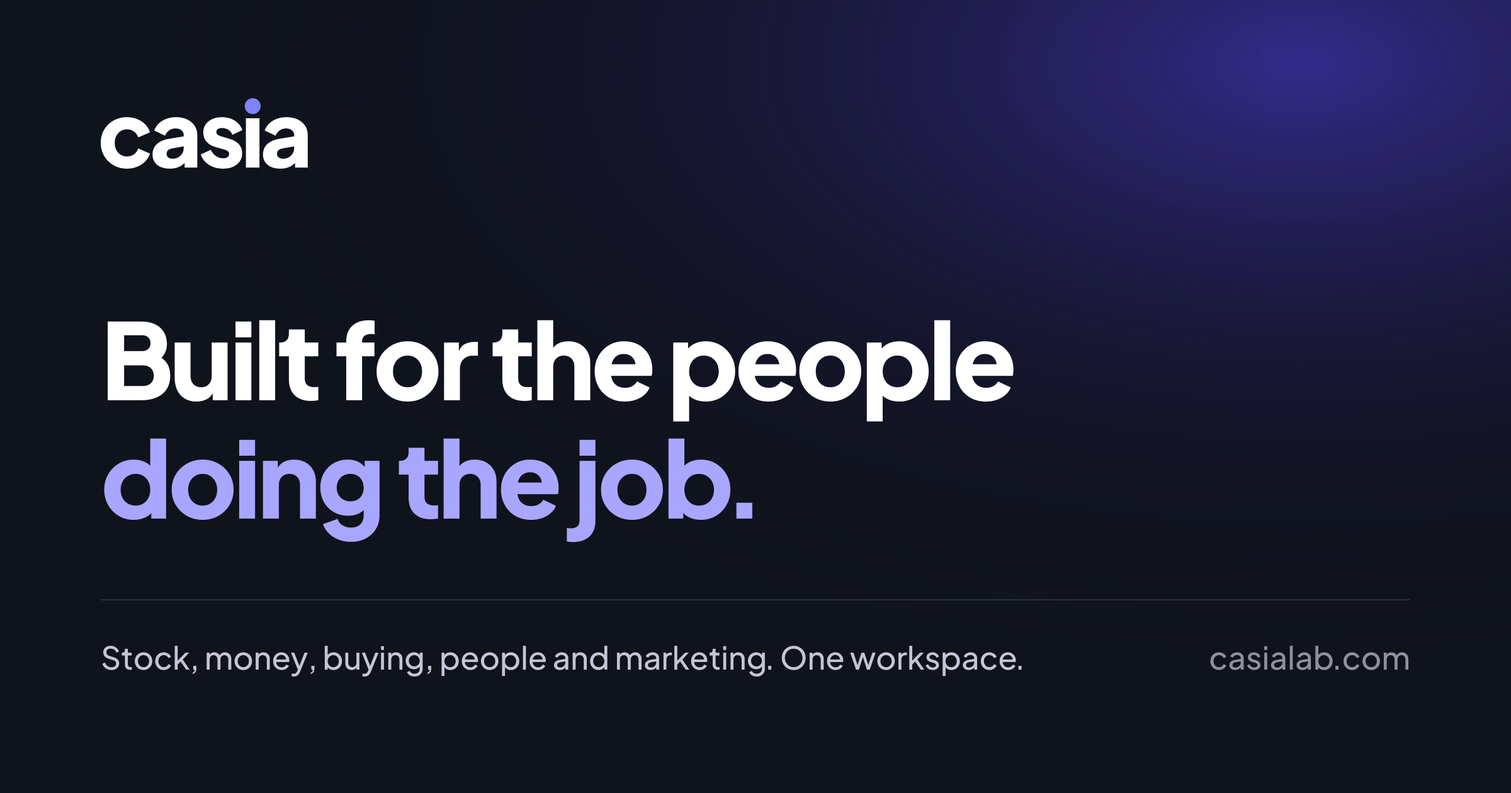
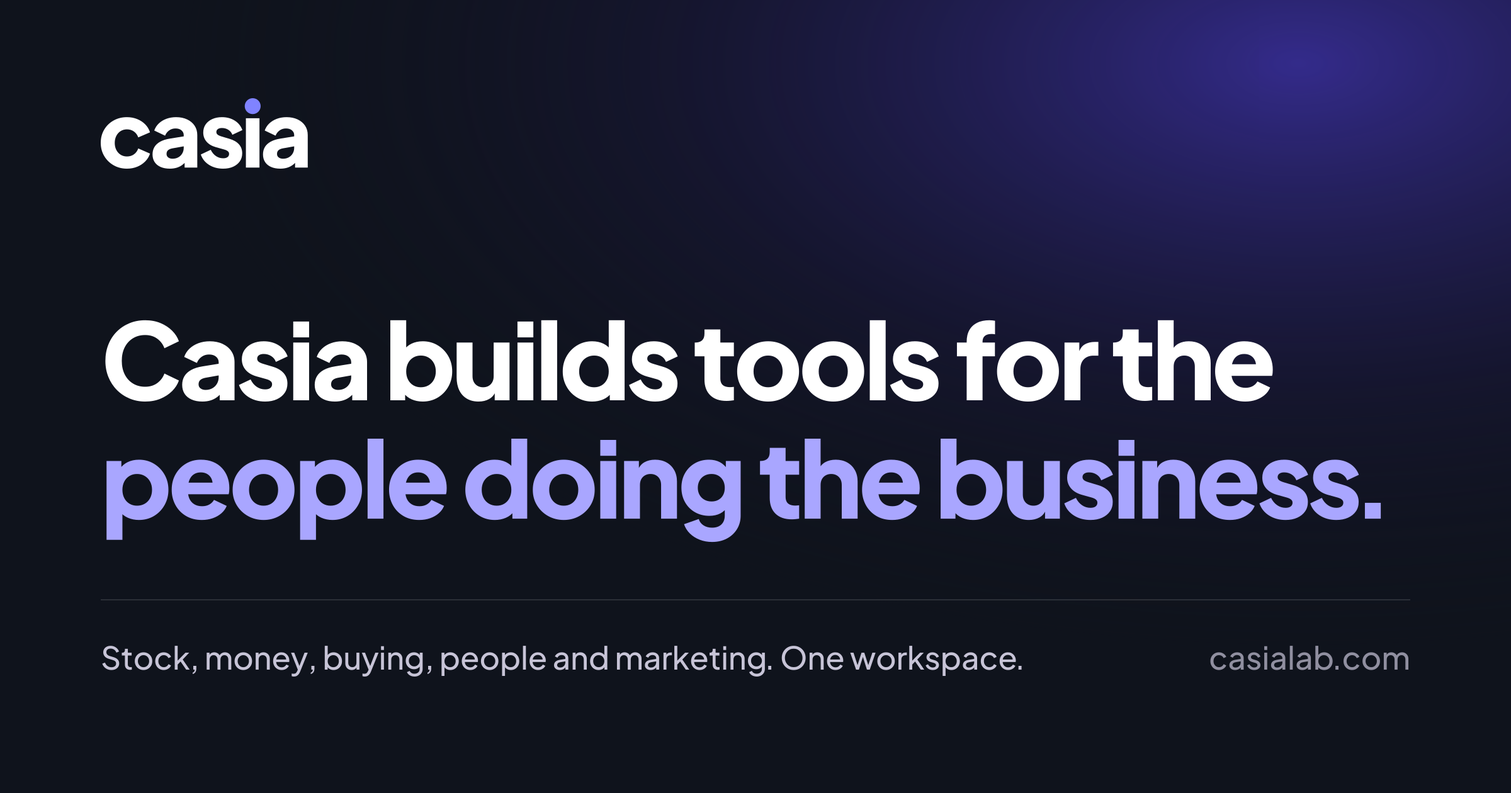
Copy: Casia is the company, not the platform (#12)
"Casia builds tools for the people doing the business." Reworded every
line that made Casia the software ("Casia is built for", "Casia passes
the receipt", "what Casia runs"), relabelled the comparison column
"Casia's tools", and rebuilt the share image with the new line.

Changed region(s): [[0.0625, 0.4024, 0.9375, 0.681]]

diff --git a/index.html b/index.html
@@ -9,13 +9,13 @@
 <meta property="og:description" content="Switch on the tools you need, try each one free, and hire an AI agent for the routine work. Do it easy.">
 <meta property="og:type" content="website">
 <meta property="og:url" content="https://casialab.com/">
-<meta property="og:image" content="https://casialab.com/og-image.png?v=2">
+<meta property="og:image" content="https://casialab.com/og-image.png?v=3">
 <meta property="og:image:width" content="1200">
 <meta property="og:image:height" content="630">
 <meta name="twitter:card" content="summary_large_image">
 <meta name="twitter:title" content="Casia Lab. One workspace for your team and the agents that support them.">
 <meta name="twitter:description" content="Switch on the tools you need, try each one free, and hire an AI agent for the routine work. Do it easy.">
-<meta name="twitter:image" content="https://casialab.com/og-image.png?v=2">
+<meta name="twitter:image" content="https://casialab.com/og-image.png?v=3">
 <meta name="theme-color" content="#0f131c">
 <link rel="canonical" href="https://casialab.com/">
 <link href="https://fonts.googleapis.com" rel="preconnect"/>
@@ -205,45 +205,45 @@
 <section class="max-w-[1240px] mx-auto px-margin-mobile md:px-margin py-space-3xl" id="why">
 <div class="text-center max-w-[880px] mx-auto mb-space-2xl">
 <span class="font-label-caps text-label-caps text-primary uppercase tracking-widest">Why Casia</span>
-<h2 class="font-headline-lg text-headline-lg-mobile md:text-headline-lg text-on-surface mt-2 tracking-tight">Most business software is built for the job&nbsp;function. <br class="hidden md:inline"/>Casia is built for the people doing the&nbsp;job.</h2>
+<h2 class="font-headline-lg text-headline-lg-mobile md:text-headline-lg text-on-surface mt-2 tracking-tight">Most business software is built for the job&nbsp;function. <br class="hidden md:inline"/>Casia builds tools for the people doing the&nbsp;business.</h2>
 <p class="font-body-lg text-body-lg text-on-surface-variant mt-space-sm">That's why the experience so often breaks for the people who do the work. The software fits an org chart, not a working day. Here is where it usually hurts, and what we do instead.</p>
 </div>
 <div class="rounded-2xl bg-surface-container-low px-space-lg md:px-space-xl pb-space-sm">
 <div class="hidden md:grid grid-cols-[minmax(0,200px)_minmax(0,1fr)_minmax(0,1fr)] gap-x-space-lg pt-space-lg pb-space-sm">
 <span class="font-label-caps text-label-caps text-on-surface-variant uppercase tracking-wider">The headache</span>
 <span class="font-label-caps text-label-caps text-error uppercase tracking-wider">Most business software</span>
-<span class="font-label-caps text-label-caps text-secondary uppercase tracking-wider">Casia</span>
+<span class="font-label-caps text-label-caps text-secondary uppercase tracking-wider">Casia&rsquo;s tools</span>
 </div>
 <div class="md:hidden pt-space-sm"></div>
 <div class="grid grid-cols-1 md:grid-cols-[minmax(0,200px)_minmax(0,1fr)_minmax(0,1fr)] gap-x-space-lg gap-y-space-xs py-space-md border-t border-surface-container-high/60">
 <div class="flex items-center md:items-start gap-space-sm"><span class="material-symbols-outlined text-primary text-[20px] shrink-0" aria-hidden="true">diversity_3</span><h3 class="font-headline-sm text-body-md text-on-surface">Who it's built for</h3></div>
 <p class="flex items-start gap-2 font-body-sm text-body-sm text-on-surface-variant"><span class="material-symbols-outlined text-error text-[18px] shrink-0" aria-hidden="true">close</span><span><span class="md:hidden font-label-caps text-label-caps text-error uppercase tracking-wider">Most business software: </span>The job function. Screens follow the org chart and the reports a department needs, so the person doing the work fits around the software.</span></p>
-<p class="flex items-start gap-2 font-body-sm text-body-sm text-on-surface"><span class="material-symbols-outlined text-secondary text-[18px] shrink-0" aria-hidden="true">check_circle</span><span><span class="md:hidden font-label-caps text-label-caps text-secondary uppercase tracking-wider">Casia: </span>The people doing the work: the storekeeper taking a delivery, the bookkeeper matching a bank line, the owner who does a bit of everything.</span></p>
+<p class="flex items-start gap-2 font-body-sm text-body-sm text-on-surface"><span class="material-symbols-outlined text-secondary text-[18px] shrink-0" aria-hidden="true">check_circle</span><span><span class="md:hidden font-label-caps text-label-caps text-secondary uppercase tracking-wider">Casia&rsquo;s tools: </span>The people doing the work: the storekeeper taking a delivery, the bookkeeper matching a bank line, the owner who does a bit of everything.</span></p>
 </div>
 <div class="grid grid-cols-1 md:grid-cols-[minmax(0,200px)_minmax(0,1fr)_minmax(0,1fr)] gap-x-space-lg gap-y-space-xs py-space-md border-t border-surface-container-high/60">
 <div class="flex items-center md:items-start gap-space-sm"><span class="material-symbols-outlined text-primary text-[20px] shrink-0" aria-hidden="true">rocket_launch</span><h3 class="font-headline-sm text-body-md text-on-surface">Getting started</h3></div>
 <p class="flex items-start gap-2 font-body-sm text-body-sm text-on-surface-variant"><span class="material-symbols-outlined text-error text-[18px] shrink-0" aria-hidden="true">close</span><span><span class="md:hidden font-label-caps text-label-caps text-error uppercase tracking-wider">Most business software: </span>Weeks of setup, a consultant and a contract before anyone uses it.</span></p>
-<p class="flex items-start gap-2 font-body-sm text-body-sm text-on-surface"><span class="material-symbols-outlined text-secondary text-[18px] shrink-0" aria-hidden="true">check_circle</span><span><span class="md:hidden font-label-caps text-label-caps text-secondary uppercase tracking-wider">Casia: </span>Create your workspace and switch on a tool yourself today, on a free trial with no card.</span></p>
+<p class="flex items-start gap-2 font-body-sm text-body-sm text-on-surface"><span class="material-symbols-outlined text-secondary text-[18px] shrink-0" aria-hidden="true">check_circle</span><span><span class="md:hidden font-label-caps text-label-caps text-secondary uppercase tracking-wider">Casia&rsquo;s tools: </span>Create your workspace and switch on a tool yourself today, on a free trial with no card.</span></p>
 </div>
 <div class="grid grid-cols-1 md:grid-cols-[minmax(0,200px)_minmax(0,1fr)_minmax(0,1fr)] gap-x-space-lg gap-y-space-xs py-space-md border-t border-surface-container-high/60">
 <div class="flex items-center md:items-start gap-space-sm"><span class="material-symbols-outlined text-primary text-[20px] shrink-0" aria-hidden="true">school</span><h3 class="font-headline-sm text-body-md text-on-surface">Training and roll-out</h3></div>
 <p class="flex items-start gap-2 font-body-sm text-body-sm text-on-surface-variant"><span class="material-symbols-outlined text-error text-[18px] shrink-0" aria-hidden="true">close</span><span><span class="md:hidden font-label-caps text-label-caps text-error uppercase tracking-wider">Most business software: </span>A training course, then everything goes live at once and everyone has to change on the same day.</span></p>
-<p class="flex items-start gap-2 font-body-sm text-body-sm text-on-surface"><span class="material-symbols-outlined text-secondary text-[18px] shrink-0" aria-hidden="true">check_circle</span><span><span class="md:hidden font-label-caps text-label-caps text-secondary uppercase tracking-wider">Casia: </span>Start with one tool and one team. Add the next tool when your people are ready, in the same workspace.</span></p>
+<p class="flex items-start gap-2 font-body-sm text-body-sm text-on-surface"><span class="material-symbols-outlined text-secondary text-[18px] shrink-0" aria-hidden="true">check_circle</span><span><span class="md:hidden font-label-caps text-label-caps text-secondary uppercase tracking-wider">Casia&rsquo;s tools: </span>Start with one tool and one team. Add the next tool when your people are ready, in the same workspace.</span></p>
 </div>
 <div class="grid grid-cols-1 md:grid-cols-[minmax(0,200px)_minmax(0,1fr)_minmax(0,1fr)] gap-x-space-lg gap-y-space-xs py-space-md border-t border-surface-container-high/60">
 <div class="flex items-center md:items-start gap-space-sm"><span class="material-symbols-outlined text-primary text-[20px] shrink-0" aria-hidden="true">hub</span><h3 class="font-headline-sm text-body-md text-on-surface">Working together</h3></div>
 <p class="flex items-start gap-2 font-body-sm text-body-sm text-on-surface-variant"><span class="material-symbols-outlined text-error text-[18px] shrink-0" aria-hidden="true">close</span><span><span class="md:hidden font-label-caps text-label-caps text-error uppercase tracking-wider">Most business software: </span>Tools that don't talk to each other, so people retype the same thing and the numbers stop agreeing.</span></p>
-<p class="flex items-start gap-2 font-body-sm text-body-sm text-on-surface"><span class="material-symbols-outlined text-secondary text-[18px] shrink-0" aria-hidden="true">check_circle</span><span><span class="md:hidden font-label-caps text-label-caps text-secondary uppercase tracking-wider">Casia: </span>Tools that pass the work along: goods received in Inventory reach Finance on their own, ready for someone to approve.</span></p>
+<p class="flex items-start gap-2 font-body-sm text-body-sm text-on-surface"><span class="material-symbols-outlined text-secondary text-[18px] shrink-0" aria-hidden="true">check_circle</span><span><span class="md:hidden font-label-caps text-label-caps text-secondary uppercase tracking-wider">Casia&rsquo;s tools: </span>Tools that pass the work along: goods received in Inventory reach Finance on their own, ready for someone to approve.</span></p>
 </div>
 <div class="grid grid-cols-1 md:grid-cols-[minmax(0,200px)_minmax(0,1fr)_minmax(0,1fr)] gap-x-space-lg gap-y-space-xs py-space-md border-t border-surface-container-high/60">
 <div class="flex items-center md:items-start gap-space-sm"><span class="material-symbols-outlined text-primary text-[20px] shrink-0" aria-hidden="true">group</span><h3 class="font-headline-sm text-body-md text-on-surface">Your team</h3></div>
 <p class="flex items-start gap-2 font-body-sm text-body-sm text-on-surface-variant"><span class="material-symbols-outlined text-error text-[18px] shrink-0" aria-hidden="true">close</span><span><span class="md:hidden font-label-caps text-label-caps text-error uppercase tracking-wider">Most business software: </span>A login and a fee for every person, so only some of the team gets access.</span></p>
-<p class="flex items-start gap-2 font-body-sm text-body-sm text-on-surface"><span class="material-symbols-outlined text-secondary text-[18px] shrink-0" aria-hidden="true">check_circle</span><span><span class="md:hidden font-label-caps text-label-caps text-secondary uppercase tracking-wider">Casia: </span>One sign-in for your whole team, and everyone is included in every tool. When someone leaves, their access ends everywhere.</span></p>
+<p class="flex items-start gap-2 font-body-sm text-body-sm text-on-surface"><span class="material-symbols-outlined text-secondary text-[18px] shrink-0" aria-hidden="true">check_circle</span><span><span class="md:hidden font-label-caps text-label-caps text-secondary uppercase tracking-wider">Casia&rsquo;s tools: </span>One sign-in for your whole team, and everyone is included in every tool. When someone leaves, their access ends everywhere.</span></p>
 </div>
 <div class="grid grid-cols-1 md:grid-cols-[minmax(0,200px)_minmax(0,1fr)_minmax(0,1fr)] gap-x-space-lg gap-y-space-xs py-space-md border-t border-surface-container-high/60">
 <div class="flex items-center md:items-start gap-space-sm"><span class="material-symbols-outlined text-primary text-[20px] shrink-0" aria-hidden="true">support_agent</span><h3 class="font-headline-sm text-body-md text-on-surface">Getting help</h3></div>
 <p class="flex items-start gap-2 font-body-sm text-body-sm text-on-surface-variant"><span class="material-symbols-outlined text-error text-[18px] shrink-0" aria-hidden="true">close</span><span><span class="md:hidden font-label-caps text-label-caps text-error uppercase tracking-wider">Most business software: </span>A ticket queue, and a different vendor to chase for every tool.</span></p>
-<p class="flex items-start gap-2 font-body-sm text-body-sm text-on-surface"><span class="material-symbols-outlined text-secondary text-[18px] shrink-0" aria-hidden="true">check_circle</span><span><span class="md:hidden font-label-caps text-label-caps text-secondary uppercase tracking-wider">Casia: </span>One place to ask, and a person at Casia replies.</span></p>
+<p class="flex items-start gap-2 font-body-sm text-body-sm text-on-surface"><span class="material-symbols-outlined text-secondary text-[18px] shrink-0" aria-hidden="true">check_circle</span><span><span class="md:hidden font-label-caps text-label-caps text-secondary uppercase tracking-wider">Casia&rsquo;s tools: </span>One place to ask, and a person at Casia replies.</span></p>
 </div>
 </div>
 </section>
@@ -375,9 +375,9 @@
 <div class="p-space-lg rounded-2xl bg-surface-container flex flex-col justify-between relative">
 <div>
 <div class="w-8 h-8 rounded-full bg-secondary-container text-on-secondary flex items-center justify-center font-bold text-body-sm mb-space-md">2</div>
-<span class="font-label-caps text-label-caps text-secondary uppercase">Casia</span>
+<span class="font-label-caps text-label-caps text-secondary uppercase">Automatic</span>
 <h4 class="font-headline-sm text-headline-sm text-on-surface mt-1 mb-2">Sent to Finance</h4>
-<p class="font-body-sm text-body-sm text-on-surface-variant">Within minutes, Casia passes the receipt to Finance. Nobody forwards it or types it in again.</p>
+<p class="font-body-sm text-body-sm text-on-surface-variant">Within minutes, the receipt reaches Finance on its own. Nobody forwards it or types it in again.</p>
 </div>
 <div class="mt-space-lg pt-space-sm flex items-center gap-1.5 text-secondary text-body-sm font-label-code"><span class="material-symbols-outlined text-[16px]" aria-hidden="true">sync_alt</span><span>Zero re-typing</span></div>
 </div>

diff --git a/contact.html b/contact.html
@@ -10,13 +10,13 @@
 <meta property="og:description" content="Get in touch with Casia for product, partnership, reseller, support, or media questions. One message, routed to the right person on our team.">
 <meta property="og:type" content="website">
 <meta property="og:url" content="https://casialab.com/contact.html">
-<meta property="og:image" content="https://casialab.com/og-image.png?v=2">
+<meta property="og:image" content="https://casialab.com/og-image.png?v=3">
 <meta property="og:image:width" content="1200">
 <meta property="og:image:height" content="630">
 <meta name="twitter:card" content="summary_large_image">
 <meta name="twitter:title" content="Contact · Casia Lab">
 <meta name="twitter:description" content="Get in touch with Casia for product, partnership, reseller, support, or media questions. One message, routed to the right person on our team.">
-<meta name="twitter:image" content="https://casialab.com/og-image.png?v=2">
+<meta name="twitter:image" content="https://casialab.com/og-image.png?v=3">
 <link href="https://fonts.googleapis.com" rel="preconnect"/>
 <link crossorigin="" href="https://fonts.gstatic.com" rel="preconnect"/>
 <link href="https://fonts.googleapis.com/css2?family=Plus+Jakarta+Sans:wght@400;500;600;700;800&amp;family=Geist:wght@400;500;700&amp;display=swap" rel="stylesheet"/>
@@ -146,7 +146,7 @@
 </div>
 <div><label class="block font-label-caps text-label-caps text-on-surface-variant uppercase mb-1" for="ct-business">Business / organization</label><input class="w-full px-space-md py-2.5 rounded-xl bg-surface-container text-on-surface placeholder:text-outline font-body-sm border-0 focus:outline-none focus:ring-1 focus:ring-primary" id="ct-business" type="text" name="business" autocomplete="organization" placeholder="ACME Trading Co."></div>
 <div><label class="block font-label-caps text-label-caps text-on-surface-variant uppercase mb-1" for="ct-reason">Reason for contacting us</label><select class="w-full px-space-md py-2.5 rounded-xl bg-surface-container text-on-surface font-body-sm border-0 focus:outline-none focus:ring-1 focus:ring-primary" id="ct-reason" name="reason">
-<option value="I want to use the platform">I want to use Casia</option>
+<option value="I want to use the platform">I want to use Casia&rsquo;s tools</option>
 <option>I want to partner</option>
 <option>I want to become a reseller</option>
 <option>I want to work with Casia</option>
@@ -181,7 +181,7 @@
 <div class="p-space-lg md:p-space-xl rounded-2xl bg-surface-container flex flex-col">
 <div class="w-11 h-11 rounded-xl bg-secondary-container/20 text-secondary flex items-center justify-center mb-space-md"><span class="material-symbols-outlined text-[24px]" aria-hidden="true">toggle_on</span></div>
 <h3 class="font-headline-sm text-headline-sm text-on-surface mb-space-xs">Explore the tools</h3>
-<p class="font-body-sm text-body-sm text-on-surface-variant mb-space-md">See what Casia runs: people, finance, inventory, procurement, and more.</p>
+<p class="font-body-sm text-body-sm text-on-surface-variant mb-space-md">See the tools Casia builds: people ops, finance, inventory, procurement, and more.</p>
 <a class="mt-auto inline-flex items-center gap-1 text-primary font-headline-sm text-body-sm hover:underline" href="index.html#tools">See what it runs <span class="material-symbols-outlined text-[16px]" aria-hidden="true">arrow_forward</span></a>
 </div>
 <div class="p-space-lg md:p-space-xl rounded-2xl bg-surface-container flex flex-col">

diff --git a/partner.html b/partner.html
@@ -10,13 +10,13 @@
 <meta property="og:description" content="Partner with Casia. We work with associations, accountants, lenders and trade groups that already serve owner-led businesses, so the businesses you work with can run better.">
 <meta property="og:type" content="website">
 <meta property="og:url" content="https://casialab.com/partner.html">
-<meta property="og:image" content="https://casialab.com/og-image.png?v=2">
+<meta property="og:image" content="https://casialab.com/og-image.png?v=3">
 <meta property="og:image:width" content="1200">
 <meta property="og:image:height" content="630">
 <meta name="twitter:card" content="summary_large_image">
 <meta name="twitter:title" content="Partners · Casia Lab">
 <meta name="twitter:description" content="Partner with Casia. We work with associations, accountants, lenders and trade groups that already serve owner-led businesses, so the businesses you work with can run better.">
-<meta name="twitter:image" content="https://casialab.com/og-image.png?v=2">
+<meta name="twitter:image" content="https://casialab.com/og-image.png?v=3">
 <link href="https://fonts.googleapis.com" rel="preconnect"/>
 <link crossorigin="" href="https://fonts.gstatic.com" rel="preconnect"/>
 <link href="https://fonts.googleapis.com/css2?family=Plus+Jakarta+Sans:wght@400;500;600;700;800&amp;family=Geist:wght@400;500;700&amp;display=swap" rel="stylesheet"/>
@@ -138,12 +138,12 @@
 <div class="p-space-lg md:p-space-xl rounded-2xl bg-surface-container flex flex-col">
 <div class="w-11 h-11 rounded-xl bg-secondary-container/20 text-secondary flex items-center justify-center mb-space-md"><span class="material-symbols-outlined text-[24px]" aria-hidden="true">school</span></div>
 <h3 class="font-headline-sm text-headline-sm text-on-surface mb-space-xs">Program partnerships</h3>
-<p class="font-body-sm text-body-sm text-on-surface-variant">Bundle Casia into SME training, accelerator, or small-business support programmes your organisation runs.</p>
+<p class="font-body-sm text-body-sm text-on-surface-variant">Bundle Casia&rsquo;s tools into SME training, accelerator, or small-business support programmes your organisation runs.</p>
 </div>
 <div class="p-space-lg md:p-space-xl rounded-2xl bg-surface-container flex flex-col">
 <div class="w-11 h-11 rounded-xl bg-tertiary-container/20 text-tertiary flex items-center justify-center mb-space-md"><span class="material-symbols-outlined text-[24px]" aria-hidden="true">handshake</span></div>
 <h3 class="font-headline-sm text-headline-sm text-on-surface mb-space-xs">Product alliances</h3>
-<p class="font-body-sm text-body-sm text-on-surface-variant">Integrations between Casia and a tool you already operate, where it makes sense for both sides.</p>
+<p class="font-body-sm text-body-sm text-on-surface-variant">Integrations between Casia&rsquo;s tools and one you already operate, where it makes sense for both sides.</p>
 </div>
 </div>
 </div>

diff --git a/work-with-us.html b/work-with-us.html
@@ -10,13 +10,13 @@
 <meta property="og:description" content="We don't always have open roles, but we're always interested in strong people who want to build the everyday tools owner-led businesses run on. Send us your profile.">
 <meta property="og:type" content="website">
 <meta property="og:url" content="https://casialab.com/work-with-us.html">
-<meta property="og:image" content="https://casialab.com/og-image.png?v=2">
+<meta property="og:image" content="https://casialab.com/og-image.png?v=3">
 <meta property="og:image:width" content="1200">
 <meta property="og:image:height" content="630">
 <meta name="twitter:card" content="summary_large_image">
 <meta name="twitter:title" content="Careers · Casia Lab">
 <meta name="twitter:description" content="We don't always have open roles, but we're always interested in strong people who want to build the everyday tools owner-led businesses run on. Send us your profile.">
-<meta name="twitter:image" content="https://casialab.com/og-image.png?v=2">
+<meta name="twitter:image" content="https://casialab.com/og-image.png?v=3">
 <link href="https://fonts.googleapis.com" rel="preconnect"/>
 <link crossorigin="" href="https://fonts.gstatic.com" rel="preconnect"/>
 <link href="https://fonts.googleapis.com/css2?family=Plus+Jakarta+Sans:wght@400;500;600;700;800&amp;family=Geist:wght@400;500;700&amp;display=swap" rel="stylesheet"/>
@@ -182,7 +182,7 @@
 <div class="relative max-w-2xl mx-auto flex flex-col items-center">
 <span class="font-label-caps text-label-caps uppercase tracking-widest text-primary mb-space-sm">Do it easy.</span>
 <h2 class="font-headline-lg text-headline-lg-mobile md:text-headline-lg text-on-surface tracking-tight">Rather explore the work first?</h2>
-<p class="font-body-lg text-body-lg text-on-surface-variant mt-space-sm mb-space-xl">See what Casia runs, or learn who's building it. When you're ready, your profile is a click away.</p>
+<p class="font-body-lg text-body-lg text-on-surface-variant mt-space-sm mb-space-xl">See the tools Casia builds, or meet the people building them. When you're ready, your profile is a click away.</p>
 <div class="flex flex-wrap items-center justify-center gap-space-md">
 <a class="inline-flex items-center gap-space-sm px-space-xl py-space-md rounded-full bg-primary-container text-on-primary-container font-headline-sm text-body-md shadow-[0_0_28px_rgba(128,131,255,0.4)] hover:brightness-110 transition-all" href="index.html#tools"><span>Explore the tools</span><span class="material-symbols-outlined text-[18px]" aria-hidden="true">arrow_forward</span></a>
 <a class="inline-flex items-center gap-space-sm px-space-xl py-space-md rounded-full bg-surface-container-lowest text-on-surface font-body-md text-body-md hover:bg-surface-dim transition-all shadow-sm" href="about.html"><span class="material-symbols-outlined text-[18px] text-primary" aria-hidden="true">groups</span><span>About Casia</span></a>

diff --git a/about.html b/about.html
@@ -9,13 +9,13 @@
 <meta property="og:description" content="Casia Lab builds the everyday tools owner-led businesses run on. Everything you run on lives in one place and works together, so the busywork disappears.">
 <meta property="og:type" content="website">
 <meta property="og:url" content="https://casialab.com/about.html">
-<meta property="og:image" content="https://casialab.com/og-image.png?v=2">
+<meta property="og:image" content="https://casialab.com/og-image.png?v=3">
 <meta property="og:image:width" content="1200">
 <meta property="og:image:height" content="630">
 <meta name="twitter:card" content="summary_large_image">
 <meta name="twitter:title" content="About · Casia Lab">
 <meta name="twitter:description" content="Casia Lab builds the everyday tools owner-led businesses run on. Everything you run on lives in one place and works together, so the busywork disappears.">
-<meta name="twitter:image" content="https://casialab.com/og-image.png?v=2">
+<meta name="twitter:image" content="https://casialab.com/og-image.png?v=3">
 <link rel="canonical" href="https://casialab.com/about.html">
 <meta name="theme-color" content="#0f131c">
 <link href="https://fonts.googleapis.com" rel="preconnect"/>
@@ -157,7 +157,7 @@
 <div class="w-10 h-10 rounded-xl bg-secondary-container/20 text-secondary flex items-center justify-center shrink-0"><span class="material-symbols-outlined text-[22px]" aria-hidden="true">location_on</span></div>
 <h3 class="font-headline-sm text-headline-sm text-on-surface">Where we're built</h3>
 </div>
-<p class="font-body-md text-body-md text-on-surface-variant">Casia is built in <strong class="text-on-surface">Dubai, UAE</strong> for owner-led businesses everywhere. The pains we solve are the same in every market we serve: scattered records, multi-location stock, vendors expecting invoices, and money spread across accounts.</p>
+<p class="font-body-md text-body-md text-on-surface-variant">Casia is based in <strong class="text-on-surface">Dubai, UAE</strong>, and builds tools for owner-led businesses everywhere. The pains we solve are the same in every market we serve: scattered records, multi-location stock, vendors expecting invoices, and money spread across accounts.</p>
 </div>
 </div>
 </div>

diff --git a/resellers.html b/resellers.html
@@ -10,13 +10,13 @@
 <meta property="og:description" content="Introduce Casia to the owner-led businesses you already serve, and earn on every successful signup. Apply to the Casia reseller programme.">
 <meta property="og:type" content="website">
 <meta property="og:url" content="https://casialab.com/resellers.html">
-<meta property="og:image" content="https://casialab.com/og-image.png?v=2">
+<meta property="og:image" content="https://casialab.com/og-image.png?v=3">
 <meta property="og:image:width" content="1200">
 <meta property="og:image:height" content="630">
 <meta name="twitter:card" content="summary_large_image">
 <meta name="twitter:title" content="Resellers · Casia Lab">
 <meta name="twitter:description" content="Introduce Casia to the owner-led businesses you already serve, and earn on every successful signup. Apply to the Casia reseller programme.">
-<meta name="twitter:image" content="https://casialab.com/og-image.png?v=2">
+<meta name="twitter:image" content="https://casialab.com/og-image.png?v=3">
 <link href="https://fonts.googleapis.com" rel="preconnect"/>
 <link crossorigin="" href="https://fonts.gstatic.com" rel="preconnect"/>
 <link href="https://fonts.googleapis.com/css2?family=Plus+Jakarta+Sans:wght@400;500;600;700;800&amp;family=Geist:wght@400;500;700&amp;display=swap" rel="stylesheet"/>

diff --git a/thanks.html b/thanks.html
@@ -10,11 +10,11 @@
 <meta property="og:description" content="Thanks for reaching out. Your message is with the Casia team, and a real person will reply from a real address.">
 <meta property="og:type" content="website">
 <meta property="og:url" content="https://casialab.com/thanks.html">
-<meta property="og:image" content="https://casialab.com/og-image.png?v=2">
+<meta property="og:image" content="https://casialab.com/og-image.png?v=3">
 <meta name="twitter:card" content="summary_large_image">
 <meta name="twitter:title" content="Thank you · Casia Lab">
 <meta name="twitter:description" content="Thanks for reaching out. Your message is with the Casia team, and a real person will reply from a real address.">
-<meta name="twitter:image" content="https://casialab.com/og-image.png?v=2">
+<meta name="twitter:image" content="https://casialab.com/og-image.png?v=3">
 <link rel="canonical" href="https://casialab.com/thanks.html">
 <meta name="theme-color" content="#0f131c">
 <link href="https://fonts.googleapis.com" rel="preconnect"/>
